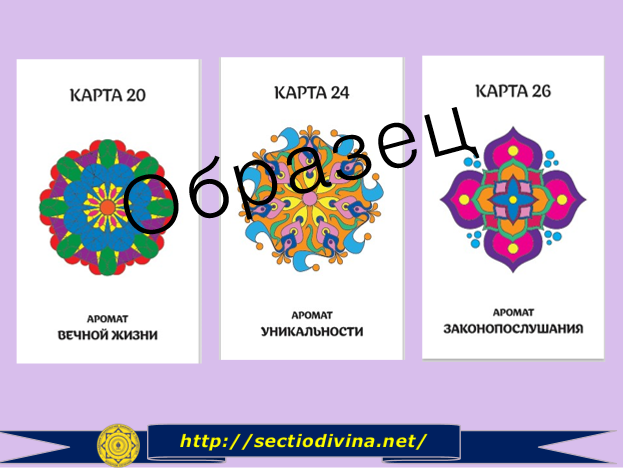
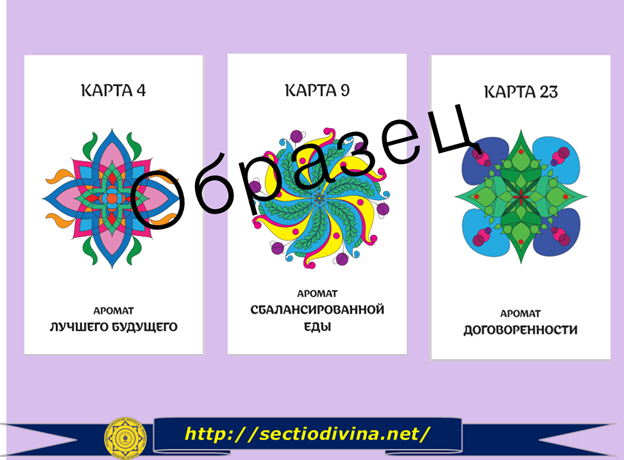
обновил код

diff --git a/index.html b/index.html
@@ -53,17 +53,11 @@
       <div class="position-card">
         <div class="info infos1" id="info1">
           <h1 class="main-text1">Карта № 1</h1>
-          <h2 class="main-text2"> Аромат вечной жизни.</h2>
+          <h2 class="main-text2">Аромат лучшего будущего.</h2>
           <p class="cart1">
-            * Появление этой карты в раскладе говорит о том, что именно сейчас вам нужно оценить, насколько велик ваш страх перед болезнями, перед неизвестностью. 
-Проанализируйте, присутствуют ли у вас следующие симптомы:
-- Вы буквально зациклены на болезни — ищете всю доступную информацию о ней.
-- Избегаете посещения врачей или, наоборот, перепроверяете диагнозы и назначения.      - - Избегаете контактов с другими людьми, боясь заразиться какой-нибудь болезнью. 
-- Любое недомогание у вас или у ваших близких вызывает панику. Вам трудно сосредоточиться и спокойно действовать.
-- Даже, если вы не болеете, мысли о болезнях и смерти часто посещают вас.
-*Если вы нашли у себя такие симптомы, начинайте избавляться от шаблонов и привычек, которые привели вас к такому состоянию. Мир сейчас пытается показать вам, что существует и другая сторона жизни. Очень часто страхи и неуверенность являются следствием недоверия к миру и жизни. Мы считаем окружающий мир агрессивной средой, где нас ждут неприятности, опасности и угрозы. И внешне это может выглядеть именно так, но на самом деле мы всегда получаем от мира то, что ожидаем. 
-*Помните, что ваши страхи несмотря ни на что пытаются вас охранять и защищать от всего, что считают опасным. Поэтому, отследив у себя какой-либо страх не спешите относиться к нему негативно, лучше поблагодарите за верную службу.
-
+            * Появление этой карты в раскладе говорит о том, что в вашей жизни есть та область, где вы испытываете страх потерять определенный комфорт и сейчас вы можете поработать с этим страхом, который мешает вам двигаться вперед. 
+* Проанализируйте, как давно вы стремились изменить что-либо в вашей жизни к лучшему? Считаете ли вы, что достойны этого лучшего?
+* Появляется ли у вас беспокойство, когда вы оказываетесь в выигрышной ситуации? 
             <div class="number-cart">
               Пишите номер карты нам в ответном письме и получите доступ к медитации на платформе геткурс.
             </div> 
@@ -77,15 +71,14 @@
   
         <div class="info infos1" id="info2">
           <h4 class="main-text3">Карта № 2</h4>
-          <h5 class="main-text4">Аромат уникальности.</h5>
+          <h5 class="main-text4">Аромат сбалансированной еды.</h5>
           <p class="cart2">
-            * Появление этой карты в раскладе говорит о том, что пришла пора понять свою уникальность, найти свой стиль, выразить свою индивидуальность. Возможно, у вас есть проблемы с проявлением себя, как личности.
-*Что же не дает проявить свою индивидуальность:
-- Детские установки, которые не позволяют верить в себя;
-- Гордыня, страхи, которые мешают быть самим собой;
-- Зацикленность на физическом мире, материальных проблемах;
-- Нежелание развиваться, раскрывать более глубокий уровень своего «Я» - уровень души.
-*Вы должны помнить, что обладаете огромным потенциалом, даже если вам кажется, что у вас нет никаких талантов. Если вы раскроете свою уникальность, примите свои индивидуальные особенности и позволите себе быть собой, то увидите сами, на что вы способны!
+            * Появление этой карты в раскладе говорит о том, что пришла пора осознать ваши отношения с едой:
+- Наслаждаетесь ли вы процессом еды?
+- Как часто чувство вины было вашим попутчиком при приеме пищи?  
+- С какими мыслями вы готовите себе еду? 
+- Уважаете ли вы сам процесс употребления пищи или делаете это «на бегу»? 
+- Как часто вы совмещаете прием пищи с просмотром новостей, беседой по телефону и т.д.
             <div class="number-cart">
               Пишите номер карты нам в ответном письме и получите доступ к медитации на платформе геткурс.
             </div> 
@@ -100,12 +93,15 @@
             Карта № 3 
           </h6>
           <h7 class="main-text6">
-            Аромат законопослушания.
+            Аромат договоренности.
           </h7>
           <p class="cart3">
-            *Появление этой карты в раскладе говорит о том, что сейчас на вашу жизненную ситуацию влияет какой-то закон, который, как вы считаете, ограничивает вашу свободу или препятствует совершению вами каких-то действий.  Вы можете отдавать себе отчет о том, какой это закон, а, может быть даже не подозреваете о существовании такого закона, воспринимая то, что происходит, как случайные события. 
-*Проанализируйте, как вы вообще относитесь к закону? Что вы думаете о соблюдении законов? Что для вас закон – свобода или ограничения?
-*Если вы отследили у себя негативное отношение к законам, вспомните, что все в жизни имеет две стороны. И только вы сами можете сделать выбор в пользу позитива, принятия и свободы.
+            * Появление этой карты в раскладе говорит о том, что сейчас вам необходимо проявить искусство дипломатии в какой-то из сфер вашей жизни. Умеете ли вы договариваться? Знаете ли вы о правилах, помогающих договориться? Напомним, что для проведения успешных переговоров вам необходимо:
+- Уважать своего собеседника, активно и внимательно его слушать;
+- Придерживаться спокойного тона общения;
+- Научится аргументировать свои предложения;
+- «Не тащить одеяло на себя». Давать возможность высказаться и другой стороне;
+- Понимать, что признавая только свою точку зрения, свою правоту, невозможно ни о чем договориться. Можно только «продавить» собственную позицию, тем самым загоняя проблему в угол.
             <div class="number-cart">
               Пишите номер карты нам в ответном письме и получите доступ к медитации на платформе геткурс.
             </div> 
